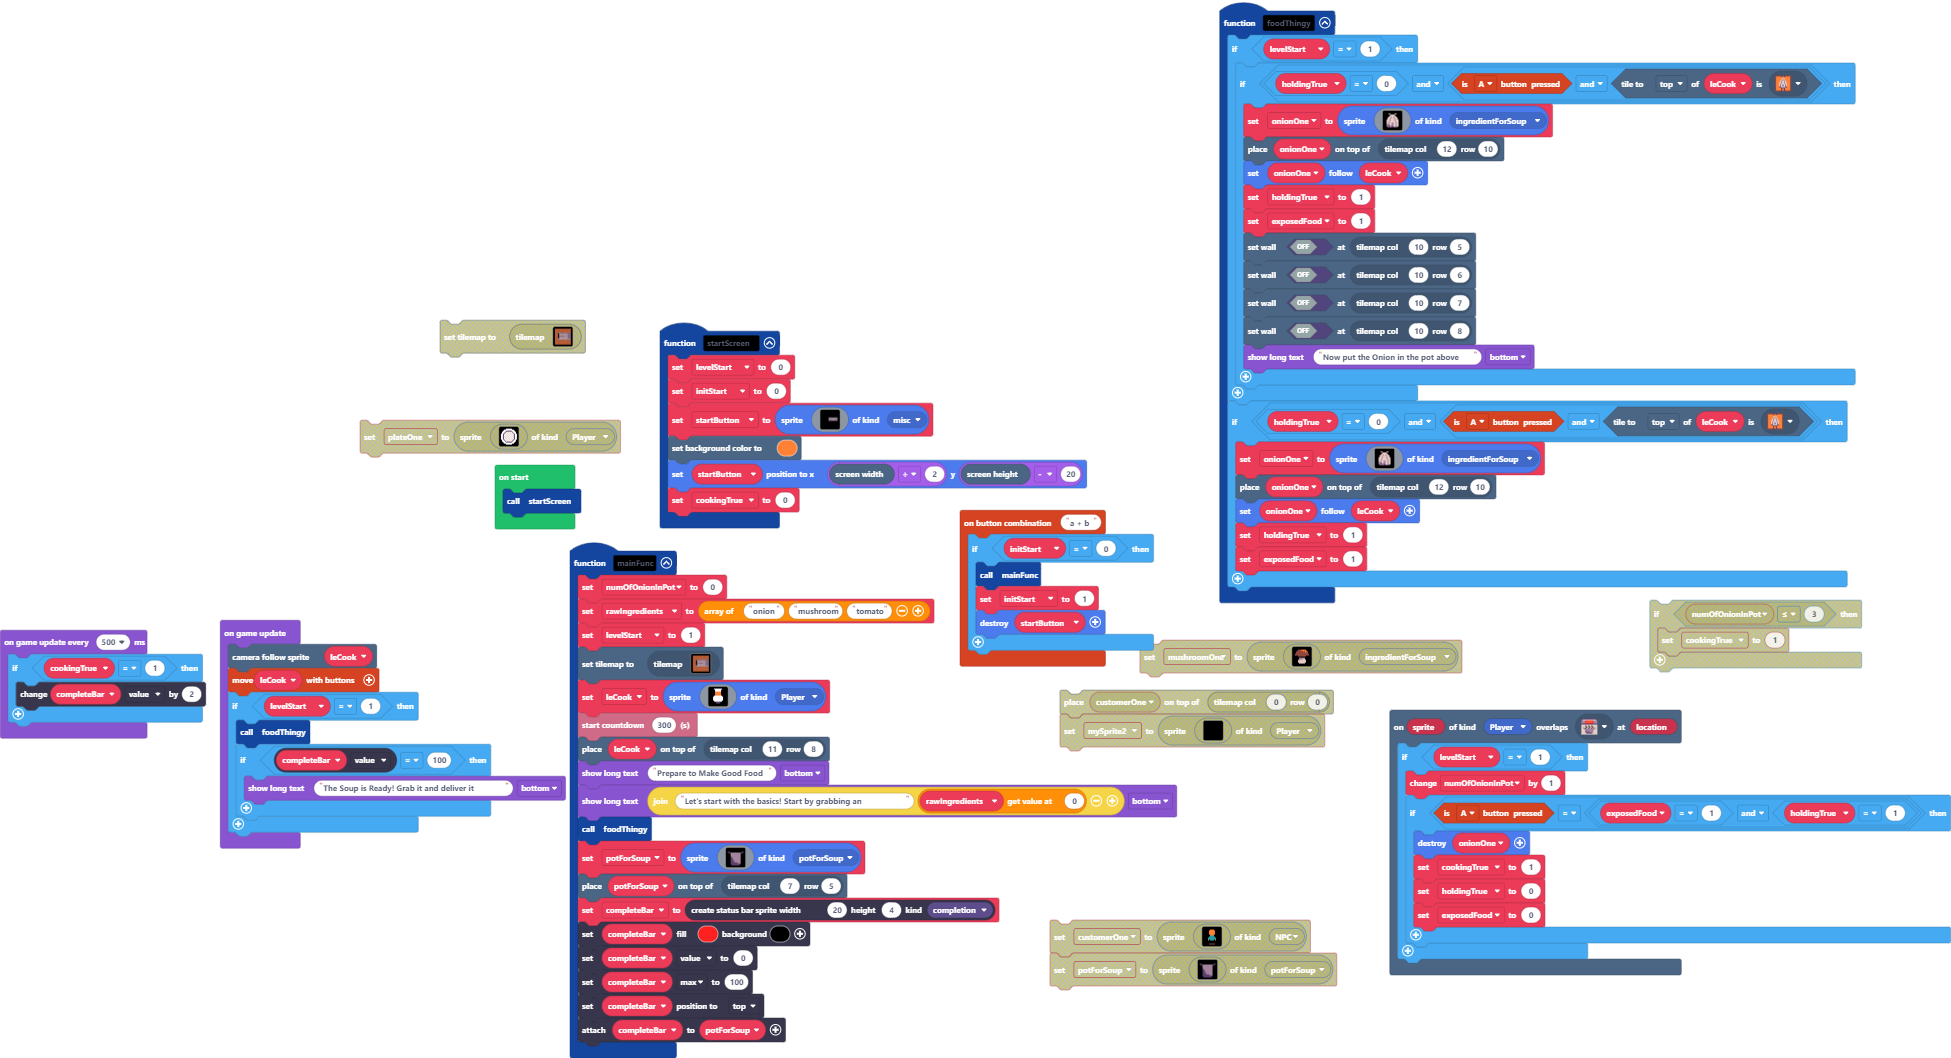
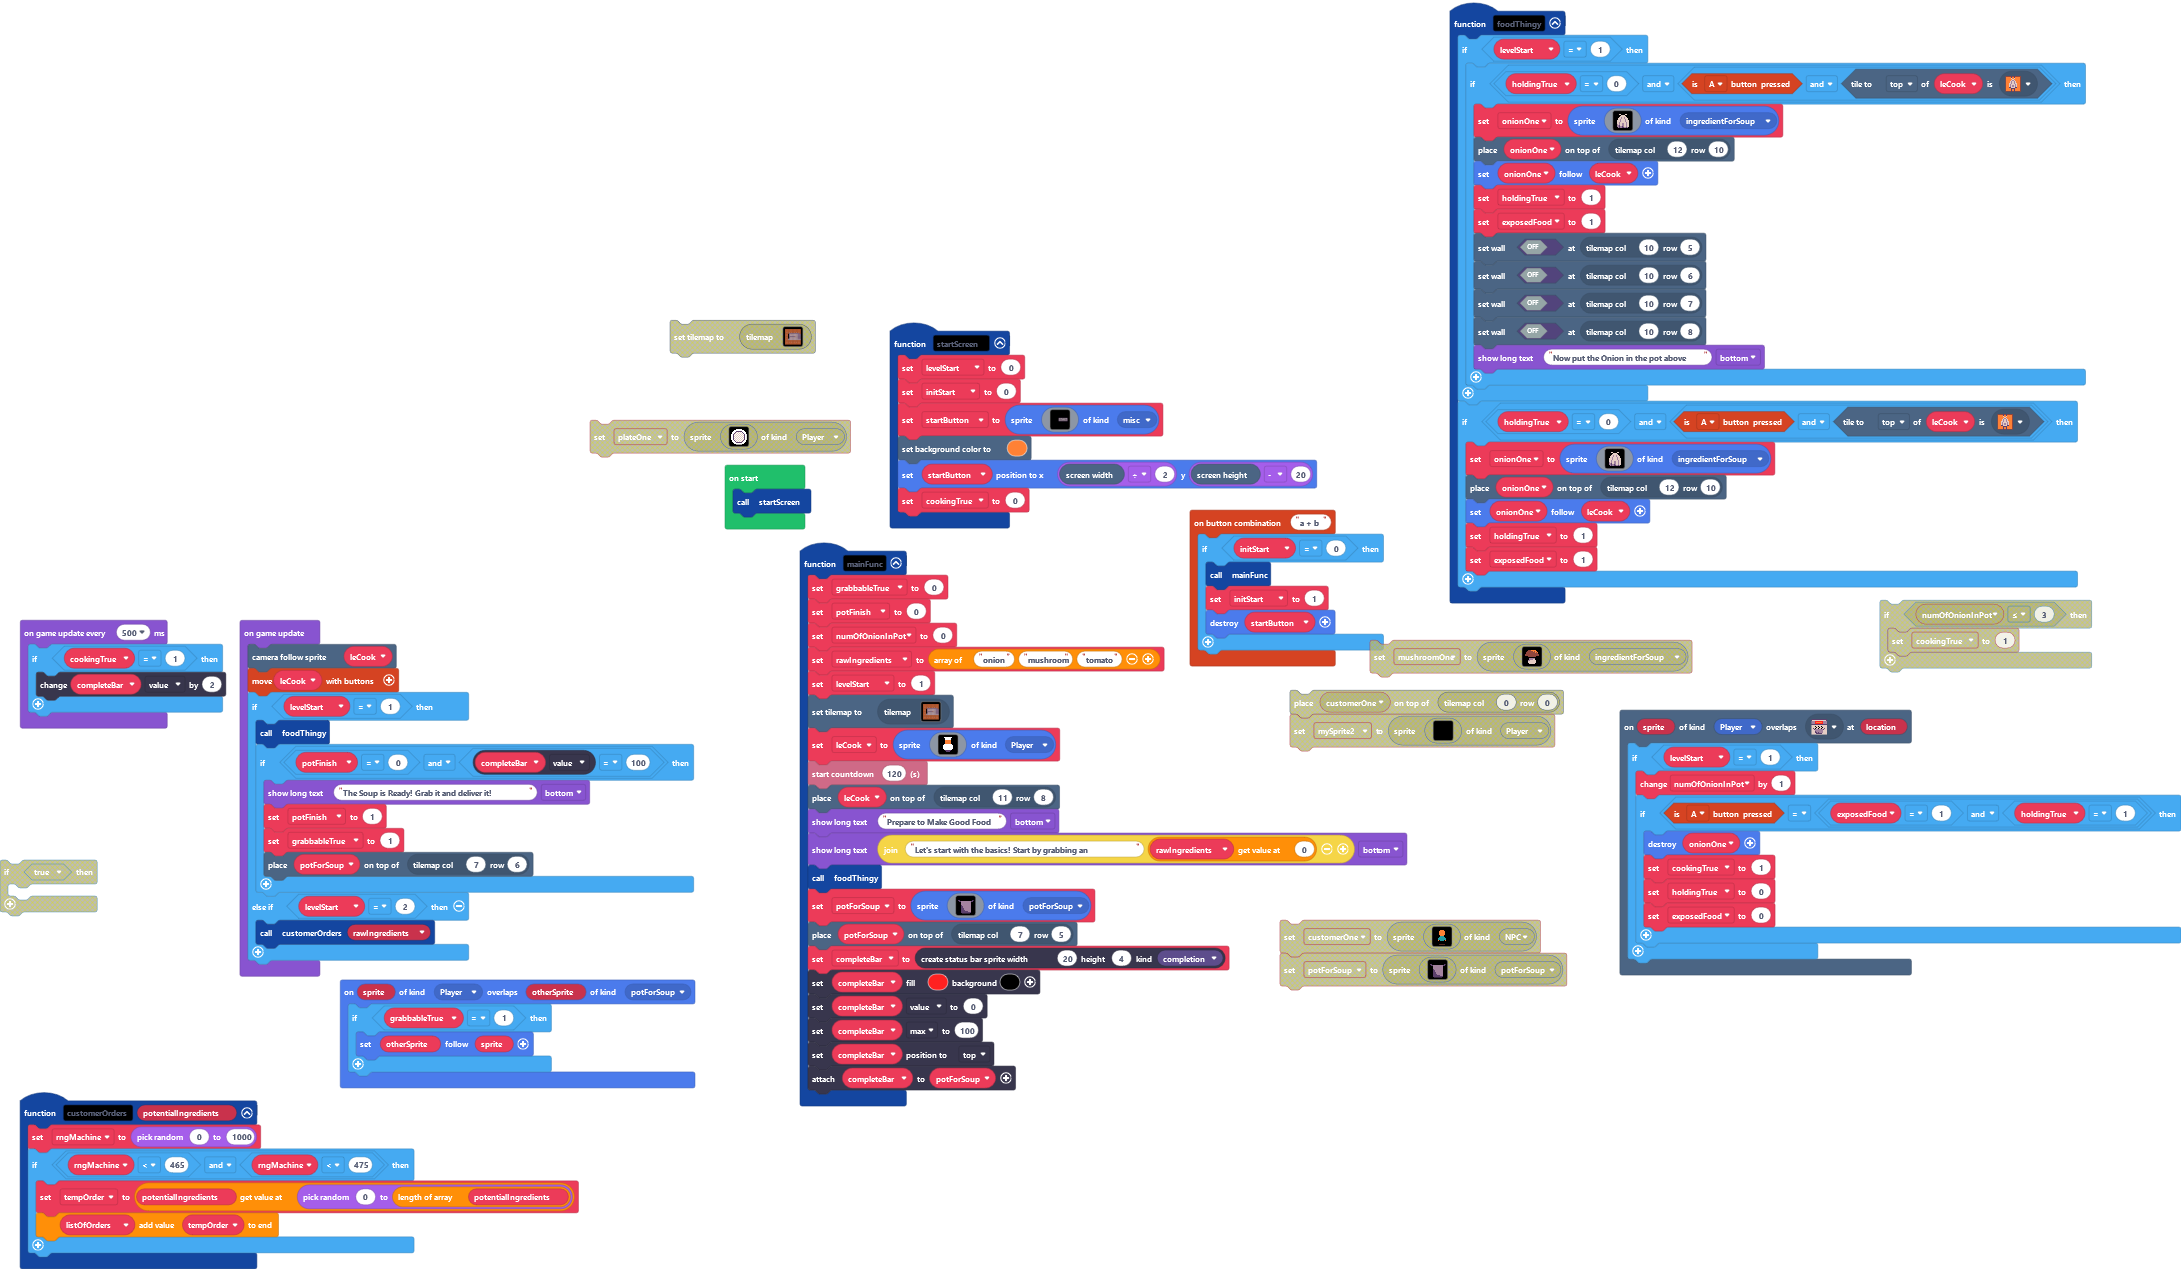
Update main.blocks, main.ts

diff --git a/main.ts b/main.ts
@@ -25,7 +25,22 @@ controller.combos.attachCombo("a + b", function () {
         startButton.destroy()
     }
 })
+function customerOrders (potentialIngredients: any[]) {
+    rngMachine = randint(0, 1000)
+    if (rngMachine < 465 && rngMachine < 475) {
+        let listOfOrders: any[] = []
+        tempOrder = potentialIngredients[randint(0, potentialIngredients.length)]
+        listOfOrders.push(tempOrder)
+    }
+}
+sprites.onOverlap(SpriteKind.Player, SpriteKind.potForSoup, function (sprite, otherSprite) {
+    if (grabbableTrue == 1) {
+        otherSprite.follow(sprite)
+    }
+})
 function mainFunc () {
+    grabbableTrue = 0
+    potFinish = 0
     numOfOnionInPot = 0
     rawIngredients = ["onion", "mushroom", "tomato"]
     levelStart = 1
@@ -48,7 +63,7 @@ function mainFunc () {
         . . . . . . c c c c . . . . . . 
         . . . . f f f f f f f f . . . . 
         `, SpriteKind.Player)
-    info.startCountdown(300)
+    info.startCountdown(120)
     tiles.placeOnTile(leCook, tiles.getTileLocation(11, 8))
     game.showLongText("Prepare to Make Good Food", DialogLayout.Bottom)
     game.showLongText("Let's start with the basics! Start by grabbing an " + rawIngredients[0], DialogLayout.Bottom)
@@ -131,6 +146,10 @@ let completeBar: StatusBarSprite = null
 let potForSoup: Sprite = null
 let leCook: Sprite = null
 let rawIngredients: string[] = []
+let potFinish = 0
+let grabbableTrue = 0
+let tempOrder: any = null
+let rngMachine = 0
 let startButton: Sprite = null
 let initStart = 0
 let cookingTrue = 0
@@ -145,9 +164,14 @@ game.onUpdate(function () {
     controller.moveSprite(leCook)
     if (levelStart == 1) {
         foodThingy()
-        if (completeBar.value == 100) {
-            game.showLongText("The Soup is Ready! Grab it and deliver it", DialogLayout.Bottom)
+        if (potFinish == 0 && completeBar.value == 100) {
+            game.showLongText("The Soup is Ready! Grab it and deliver it!", DialogLayout.Bottom)
+            potFinish = 1
+            grabbableTrue = 1
+            tiles.placeOnTile(potForSoup, tiles.getTileLocation(7, 6))
         }
+    } else if (levelStart == 2) {
+        customerOrders(rawIngredients)
     }
 })
 game.onUpdateInterval(500, function () {
